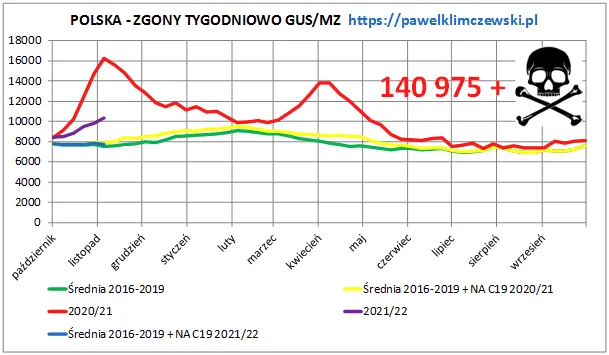
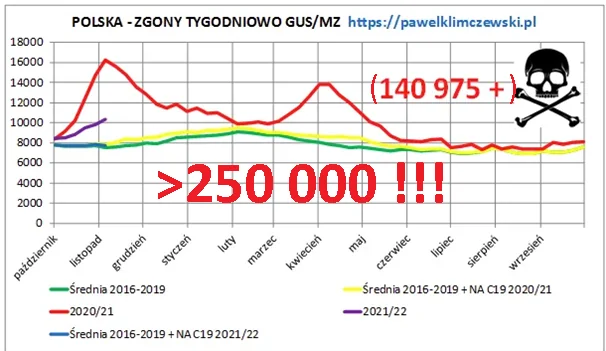
Update projektu

Changed region(s): [[0.0, 0.0, 1.0, 1.0], [0.5644, 0.7977, 0.9208, 0.9117]]

diff --git a/2026/11/22/program-zgony-plus-nierozliczony/index.html b/2026/11/22/program-zgony-plus-nierozliczony/index.html
@@ -1,5 +1,5 @@
 <!doctype html><html lang=pl><head><link rel=stylesheet href=/css/style.css><meta charset=utf-8><meta name=viewport content="width=device-width,initial-scale=1"><title>Program Zgony PLUS nierozliczony | Paweł Klimczewski</title><link rel=icon href=/img/favicon.ico><script defer src=https://cloud.umami.is/script.js data-website-id=12ff0083-8ead-4737-b8fb-302838fe879e data-performance=true data-errors=true></script></head><body><header class=site-header><nav class=site-nav><a href=/>Home</a>
-<a href=/page/about/>O mnie</a></nav></header><main><article class=single-post><h1>Program Zgony PLUS nierozliczony</h1><time>2026-11-22</time><div class=content><p><img src=/2026/11/22/program-zgony-plus-nierozliczony/okladka.webp width=609 height=355 alt=okladka style=max-width:100%;height:auto></p><center><em>Wykres: Zgony w Polsce tygodniowo 2020/21</em></center><p>Mam nadzieję, że bezczelne chwalenie się ministra jak walczył z zarazą, której nie było, tylko wywoła sprawę i spadnie na niego jak grom z jasnego nieba. On zwolnił stanowisko w sierpniu 2020, ale to on rozpoczął i firmował obłęd oczywistej nieprawdy. To na stronie jego ministerstwa co dzień czytałem dane o śmiertelności z których wynikało. że kilka zgonów dziennie na rzekomego wirusa na tle typowych 1400 zgonów dobowych, z czego ok. 400 to były inne grypo-podobne zgony to piramidalny absurd, aby mówić o epidemii. Tych zgonów w szczycie &ldquo;epidemii&rdquo; w kwietniu było ok. 40. Wtedy na wniosek Rady Ministrów zamknięto na Wielkanoc kościoły, czego nie zrobili nigdy ani Hitler, ani Stalin.</p><p><img src=/2026/11/22/program-zgony-plus-nierozliczony/szumowski_wstydu_zero.webp width=866 height=866 alt=szumowski_wstydu_zero style=max-width:100%;height:auto></p><p>Nie będziemy się teraz zastanawiać, czy szczepionki były takie, czy śmakie, one były zupełnie niepotrzebne i szkodliwe jak WSZYSTKIE decyzje, w tym zamknięcia gospodarki i zniszczenia klasy średniej w Polsce. To był jeden z głównych skutków (celów?) operacji &ldquo;plandemia&rdquo;.</p><p><img src=/2026/11/22/program-zgony-plus-nierozliczony/niedzielski_maseczka.webp width=949 height=792 alt=niedzielski_maseczka style=max-width:100%;height:auto></p><p>Potem, jesienią minister Niedzielski wprowadził blokadę służby zdrowia, czyli program &ldquo;Zgony Plus&rdquo;, w trakcie której z powodu braku leczenia na wszelkie możliwe choroby, ale nie covid, zmarło w niecałe 2 lata ćwierć miliona Polaków. Poniżej mój zapis na podstawie danych rządowych z tego procederu w chwili, gdy było już 140 000 niepotrzebnych śmierci, a rząd PiS brnął w to szaleństwo aż do wojny NA Ukrainie. Wtedy w jednej chwili &ldquo;zaraza ustała&rdquo; jak sztorm na Jeziorze Galilejskim pewnej nocy 2000 la temu. Cud? Byłby to cud, gdyby jakakolwiek epidemia była!</p><p><a href=https://pawelklimczewski.pl/2021/11/18/program-zgony-plus/ target=_blank rel="noopener noreferrer">https://pawelklimczewski.pl/2021/11/18/program-zgony-plus/</a></p></div><nav class=post-nav><div class=post-nav-prev><span>To jest najnowszy wpis</span></div><div class=post-nav-next><a href=https://pawelklimczewski.pl/2026/11/17/po-czym-poznac-ze-wciaz-mamy-wielki-reset/ data-umami-event="Nawigacja - Starszy wpis">Po czym poznać, że wciąż mamy Wielki Reset ››</a></div></nav></article></main><footer class=site-footer><div class=footer-author><div class=footer-author-text><h2 class=footer-title>Paweł Klimczewski</h2><p class=footer-subtitle>Tego w mediach nie znajdziecie</p></div><img src=/img/pawel_klimczewski.png alt="Paweł Klimczewski" class=footer-author-img width=120 height=154 style=width:120px;height:auto></div><p class=footer-text>Jeśli uważasz, że możesz mnie wesprzeć nie ma kwot za małych. Nawet najmniejsze kwoty dają realne wsparcie.</p><p>mBank : 87 1140 2017 0000 4002 1094 2334</p><p>Tytułem: "Wpłata"</p><br><p class=footer-facebook style="margin:15px 0"><a href="https://www.facebook.com/profile.php?id=100077779835195" target=_blank rel="noopener noreferrer" data-umami-event="Kliknięcie Facebook" style=display:inline-flex;align-items:center;gap:8px;color:#1877f2;text-decoration:none;font-weight:500><svg xmlns="http://w3.org" width="20" height="20" fill="currentcolor" viewBox="0 0 16 16"><path d="M16 8.049c0-4.446-3.582-8.05-8-8.05C3.58.0-.002 3.603-.002 8.05c0 4.017 2.926 7.347 6.75 7.951v-5.625h-2.03V8.05H6.75V6.275c0-2.017 1.195-3.131 3.022-3.131.876.0 1.791.157 1.791.157v1.98h-1.009c-.993.0-1.303.621-1.303 1.258v1.51h2.218l-.354 2.326H9.25V16c3.824-.604 6.75-3.934 6.75-7.951"/></svg>Znajdź mnie na Facebooku</a></p><p class=footer-youtube style="margin:15px 0"><a href=https://www.youtube.com/@pawelklimczewski8165 target=_blank rel="noopener noreferrer" data-umami-event="Kliknięcie YouTube" style=display:inline-flex;align-items:center;gap:8px;color:red;text-decoration:none;font-weight:500><svg xmlns="http://w3.org" width="20" height="20" fill="currentcolor" viewBox="0 0 16 16"><path d="M8.051 1.999h.089c.822.003 4.987.033 6.11.335a2.01 2.01.0 011.415 1.42c.101.38.172.883.22 1.402l.01.104.022.26.008.104c.065.914.073 1.77.074 1.957v.075c-.001.194-.01 1.108-.082 2.06l-.008.105-.009.104c-.05.572-.124 1.14-.235 1.558a2.01 2.01.0 01-1.415 1.42c-1.16.312-5.569.334-6.18.335h-.142c-.309.0-1.587-.006-2.927-.052l-.17-.006-.087-.004-.171-.007-.171-.007c-1.11-.049-2.167-.128-2.654-.26a2.01 2.01.0 01-1.415-1.419c-.111-.417-.185-.986-.235-1.558L.09 9.82.082 9.716A31 31 0 010 7.68v-.123c.002-.215.01-.958.064-1.778l.007-.103.003-.052.008-.104.022-.26.01-.104c.048-.519.119-1.023.22-1.402a2.01 2.01.0 011.415-1.42c.487-.13 1.544-.21 2.654-.26l.17-.007.172-.006.086-.003.171-.007A1e2 1e2.0 017.858 2zM6.4 5.209v4.818l4.157-2.408z"/></svg>Mój kanał YouTube</a></p><p class=footer-x style="margin:15px 0"><a href=https://x.com/KlimczewskiPawe target=_blank rel="noopener noreferrer" data-umami-event="Kliknięcie X" style=display:inline-flex;align-items:center;gap:8px;color:#000;text-decoration:none;font-weight:500><svg xmlns="http://w3.org" width="18" height="18" fill="currentcolor" viewBox="0 0 16 16"><path d="M12.6.75h2.454l-5.36 6.142L16 15.25h-4.937l-3.867-5.07-4.425 5.07H.316l5.733-6.57L0 .75h5.063l3.495 4.633L12.601.75zm-.86 13.028h1.36L4.323 2.145H2.865z"/></svg>Obserwuj mnie na X</a></p><p class=footer-copyright>&copy; 2026 Paweł Klimczewski</p></footer><script>document.addEventListener("DOMContentLoaded",function(){let e=[];fetch("/index.json").then(e=>e.json()).then(t=>{e=t,console.log("Załadowano unikalnych wpisów:",e.length)}),document.querySelectorAll(".search-input").forEach(t=>{t.addEventListener("input",function(){const s=this.value.toLowerCase().trim(),o=this.closest(".search-container, .site-footer"),n=o?o.querySelector(".search-results"):null,t=document.getElementById("posts-list");if(!n)return;if(s.length===0){n.innerHTML="",t&&(t.style.display="block");return}const i=e.filter(e=>{if(!e.permalink)return!1;const t=(e.title||"").toLowerCase(),n=(e.content||"").toLowerCase();return t.includes(s)||n.includes(s)});if(n.innerHTML="",i.length===0)n.innerHTML="<p>Brak wyników</p>",t&&(t.style.display="none");else{let e="";i.forEach(t=>{const n=t.title||"Bez tytułu",s=(t.content||"").substring(0,150)+"...",o=t.permalink.endsWith("/")?t.permalink+"okladka.webp":t.permalink+"/okladka.webp";e+=`<a href="${t.permalink}" class="search-result" onclick="if(typeof umami!=='undefined'){ const currentInput = this.closest('.search-container, .site-footer').querySelector('.search-input'); if(currentInput){ umami.track('Kliknięcie w wynik wyszukiwania', {fraza: currentInput.value.trim()}); } }">
+<a href=/page/about/>O mnie</a></nav></header><main><article class=single-post><h1>Program Zgony PLUS nierozliczony</h1><time>2026-11-22</time><div class=content><p><img src=/2026/11/22/program-zgony-plus-nierozliczony/okladka.webp width=606 height=351 alt=okladka style=max-width:100%;height:auto></p><center><em>Wykres: Zgony w Polsce tygodniowo 2020/21</em></center><p>Mam nadzieję, że bezczelne chwalenie się ministra jak walczył z zarazą, której nie było, tylko wywoła sprawę i spadnie na niego jak grom z jasnego nieba. On zwolnił stanowisko w sierpniu 2020, ale to on rozpoczął i firmował obłęd oczywistej nieprawdy. To na stronie jego ministerstwa co dzień czytałem dane o śmiertelności z których wynikało. że kilka zgonów dziennie na rzekomego wirusa na tle typowych 1400 zgonów dobowych, z czego ok. 400 to były inne grypo-podobne zgony to piramidalny absurd, aby mówić o epidemii. Tych zgonów w szczycie &ldquo;epidemii&rdquo; w kwietniu było ok. 40. Wtedy na wniosek Rady Ministrów zamknięto na Wielkanoc kościoły, czego nie zrobili nigdy ani Hitler, ani Stalin.</p><p><img src=/2026/11/22/program-zgony-plus-nierozliczony/szumowski_wstydu_zero.webp width=866 height=866 alt=szumowski_wstydu_zero style=max-width:100%;height:auto></p><p>Nie będziemy się teraz zastanawiać, czy szczepionki były takie, czy śmakie, one były zupełnie niepotrzebne i szkodliwe jak WSZYSTKIE decyzje, w tym zamknięcia gospodarki i zniszczenia klasy średniej w Polsce. To był jeden z głównych skutków (celów?) operacji &ldquo;plandemia&rdquo;.</p><p><img src=/2026/11/22/program-zgony-plus-nierozliczony/niedzielski_maseczka.webp width=949 height=792 alt=niedzielski_maseczka style=max-width:100%;height:auto></p><p>Potem, jesienią minister Niedzielski wprowadził blokadę służby zdrowia, czyli program &ldquo;Zgony Plus&rdquo;, w trakcie której z powodu braku leczenia na wszelkie możliwe choroby, ale nie covid, zmarło w niecałe 2 lata ćwierć miliona Polaków. Poniżej mój zapis na podstawie danych rządowych z tego procederu w chwili, gdy było już 140 000 niepotrzebnych śmierci, a rząd PiS brnął w to szaleństwo aż do wojny NA Ukrainie. Wtedy w jednej chwili &ldquo;zaraza ustała&rdquo; jak sztorm na Jeziorze Galilejskim pewnej nocy 2000 la temu. Cud? Byłby to cud, gdyby jakakolwiek epidemia była!</p><p><a href=https://pawelklimczewski.pl/2021/11/18/program-zgony-plus/ target=_blank rel="noopener noreferrer">https://pawelklimczewski.pl/2021/11/18/program-zgony-plus/</a></p></div><nav class=post-nav><div class=post-nav-prev><span>To jest najnowszy wpis</span></div><div class=post-nav-next><a href=https://pawelklimczewski.pl/2026/11/17/po-czym-poznac-ze-wciaz-mamy-wielki-reset/ data-umami-event="Nawigacja - Starszy wpis">Po czym poznać, że wciąż mamy Wielki Reset ››</a></div></nav></article></main><footer class=site-footer><div class=footer-author><div class=footer-author-text><h2 class=footer-title>Paweł Klimczewski</h2><p class=footer-subtitle>Tego w mediach nie znajdziecie</p></div><img src=/img/pawel_klimczewski.png alt="Paweł Klimczewski" class=footer-author-img width=120 height=154 style=width:120px;height:auto></div><p class=footer-text>Jeśli uważasz, że możesz mnie wesprzeć nie ma kwot za małych. Nawet najmniejsze kwoty dają realne wsparcie.</p><p>mBank : 87 1140 2017 0000 4002 1094 2334</p><p>Tytułem: "Wpłata"</p><br><p class=footer-facebook style="margin:15px 0"><a href="https://www.facebook.com/profile.php?id=100077779835195" target=_blank rel="noopener noreferrer" data-umami-event="Kliknięcie Facebook" style=display:inline-flex;align-items:center;gap:8px;color:#1877f2;text-decoration:none;font-weight:500><svg xmlns="http://w3.org" width="20" height="20" fill="currentcolor" viewBox="0 0 16 16"><path d="M16 8.049c0-4.446-3.582-8.05-8-8.05C3.58.0-.002 3.603-.002 8.05c0 4.017 2.926 7.347 6.75 7.951v-5.625h-2.03V8.05H6.75V6.275c0-2.017 1.195-3.131 3.022-3.131.876.0 1.791.157 1.791.157v1.98h-1.009c-.993.0-1.303.621-1.303 1.258v1.51h2.218l-.354 2.326H9.25V16c3.824-.604 6.75-3.934 6.75-7.951"/></svg>Znajdź mnie na Facebooku</a></p><p class=footer-youtube style="margin:15px 0"><a href=https://www.youtube.com/@pawelklimczewski8165 target=_blank rel="noopener noreferrer" data-umami-event="Kliknięcie YouTube" style=display:inline-flex;align-items:center;gap:8px;color:red;text-decoration:none;font-weight:500><svg xmlns="http://w3.org" width="20" height="20" fill="currentcolor" viewBox="0 0 16 16"><path d="M8.051 1.999h.089c.822.003 4.987.033 6.11.335a2.01 2.01.0 011.415 1.42c.101.38.172.883.22 1.402l.01.104.022.26.008.104c.065.914.073 1.77.074 1.957v.075c-.001.194-.01 1.108-.082 2.06l-.008.105-.009.104c-.05.572-.124 1.14-.235 1.558a2.01 2.01.0 01-1.415 1.42c-1.16.312-5.569.334-6.18.335h-.142c-.309.0-1.587-.006-2.927-.052l-.17-.006-.087-.004-.171-.007-.171-.007c-1.11-.049-2.167-.128-2.654-.26a2.01 2.01.0 01-1.415-1.419c-.111-.417-.185-.986-.235-1.558L.09 9.82.082 9.716A31 31 0 010 7.68v-.123c.002-.215.01-.958.064-1.778l.007-.103.003-.052.008-.104.022-.26.01-.104c.048-.519.119-1.023.22-1.402a2.01 2.01.0 011.415-1.42c.487-.13 1.544-.21 2.654-.26l.17-.007.172-.006.086-.003.171-.007A1e2 1e2.0 017.858 2zM6.4 5.209v4.818l4.157-2.408z"/></svg>Mój kanał YouTube</a></p><p class=footer-x style="margin:15px 0"><a href=https://x.com/KlimczewskiPawe target=_blank rel="noopener noreferrer" data-umami-event="Kliknięcie X" style=display:inline-flex;align-items:center;gap:8px;color:#000;text-decoration:none;font-weight:500><svg xmlns="http://w3.org" width="18" height="18" fill="currentcolor" viewBox="0 0 16 16"><path d="M12.6.75h2.454l-5.36 6.142L16 15.25h-4.937l-3.867-5.07-4.425 5.07H.316l5.733-6.57L0 .75h5.063l3.495 4.633L12.601.75zm-.86 13.028h1.36L4.323 2.145H2.865z"/></svg>Obserwuj mnie na X</a></p><p class=footer-copyright>&copy; 2026 Paweł Klimczewski</p></footer><script>document.addEventListener("DOMContentLoaded",function(){let e=[];fetch("/index.json").then(e=>e.json()).then(t=>{e=t,console.log("Załadowano unikalnych wpisów:",e.length)}),document.querySelectorAll(".search-input").forEach(t=>{t.addEventListener("input",function(){const s=this.value.toLowerCase().trim(),o=this.closest(".search-container, .site-footer"),n=o?o.querySelector(".search-results"):null,t=document.getElementById("posts-list");if(!n)return;if(s.length===0){n.innerHTML="",t&&(t.style.display="block");return}const i=e.filter(e=>{if(!e.permalink)return!1;const t=(e.title||"").toLowerCase(),n=(e.content||"").toLowerCase();return t.includes(s)||n.includes(s)});if(n.innerHTML="",i.length===0)n.innerHTML="<p>Brak wyników</p>",t&&(t.style.display="none");else{let e="";i.forEach(t=>{const n=t.title||"Bez tytułu",s=(t.content||"").substring(0,150)+"...",o=t.permalink.endsWith("/")?t.permalink+"okladka.webp":t.permalink+"/okladka.webp";e+=`<a href="${t.permalink}" class="search-result" onclick="if(typeof umami!=='undefined'){ const currentInput = this.closest('.search-container, .site-footer').querySelector('.search-input'); if(currentInput){ umami.track('Kliknięcie w wynik wyszukiwania', {fraza: currentInput.value.trim()}); } }">
             <h3>${n}</h3>
             <img src="${o}" alt="${n}" class="search-thumbnail" onerror="this.style.display='none'">
             <p>${s}</p>
